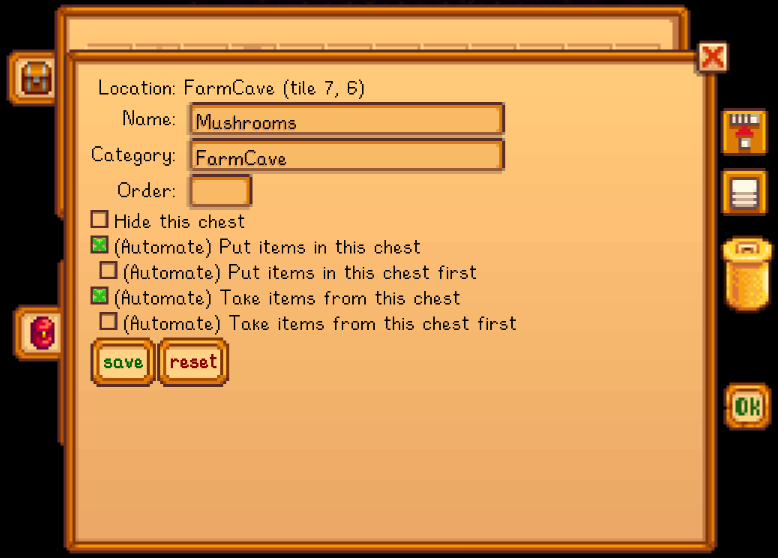
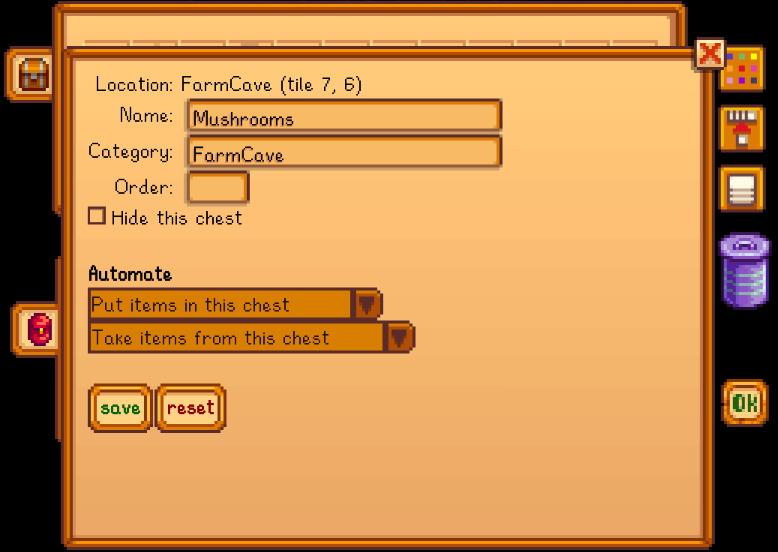
update docs about Automate UI options

Changed region(s): [[0.0, 0.0, 1.0, 1.0]]

diff --git a/Automate/README.md b/Automate/README.md
@@ -293,15 +293,20 @@ Installing [Chests Anywhere](https://www.nexusmods.com/stardewvalley/mods/518) l
 per-chest options directly in-game:
 > ![](screenshots/chests-anywhere-config.png)
 
-This adds four options for automate:
-* **Store items in this chest:** Automate will push machine output into this chest.
-* **Store items in this chest first:** Automate will push machine output into this chest first, and
-  only try other chests if it's full.
-* **Take items from this chest:** Automate will take machine input from this chest.
-* **Take items from this chest first:** Automate will take machine input from this chest first, and
-  only try other chests if it doesn't have any input for a machine.
+This adds two dropdowns for Automate:
 
-(To do this without Chests Anywhere, see the [technical documentation](technical.md).)
+* Put items:
+  * **Put items in this chest** (default).
+  * **Put items in this chest first:** Automate will push machine output into this chest first, and
+    only try other chests if it's full.
+  * **Never put items in this chest.**
+* Take items:
+  * **Take items from this chest** (default).
+  * **Take items from this chest first:** Automate will take machine input from this chest first,
+    and only try other chests if it doesn't have any input for a machine.
+  * **Never take items from this chest.**
+
+(To configure chest automation from another mod, see the [technical documentation](technical.md).)
 
 ### Per-machine settings
 _This is advanced; most players won't need to configure Automate to this extent._

diff --git a/Automate/technical.md b/Automate/technical.md
@@ -98,6 +98,8 @@ If you don't have Chests Anywhere or want to replicate it in another mod, you ca
 </tr>
 </table>
 
+If a property is missing, both taking and storing are enabled by default.
+
 ## Extensibility for modders
 See _[core concepts](#core-concepts)_ before reading this section.
 
